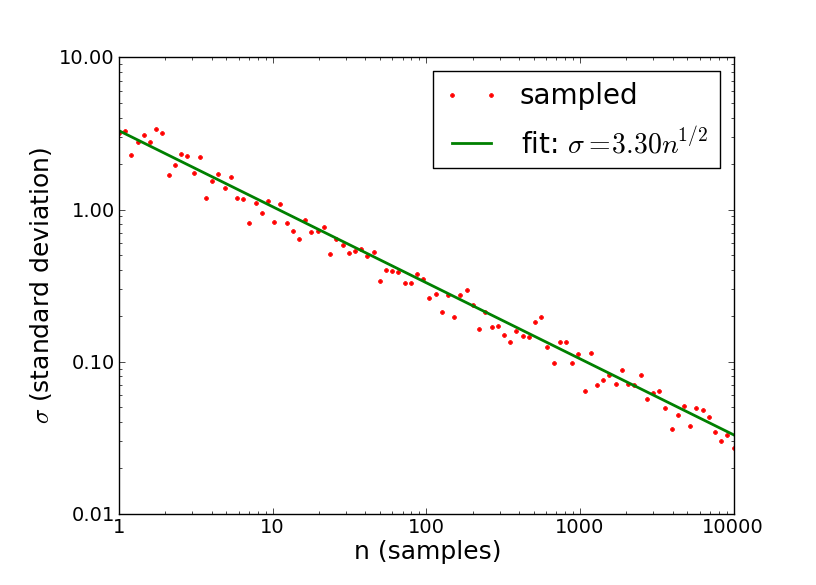
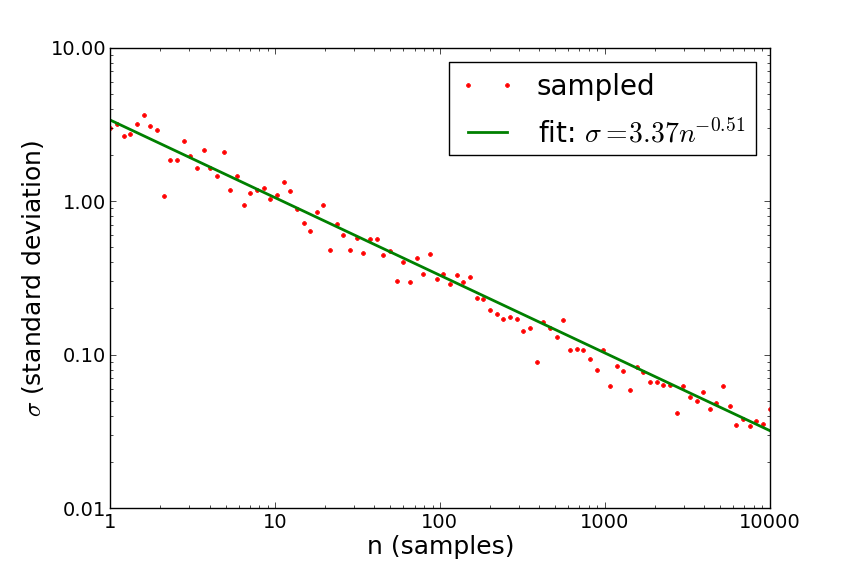
Fit power law to CLT code and plot bandpass response in dB

Changed region(s): [[0.0306, 0.0624, 0.9498, 0.9671]]

diff --git a/lab_analog/code/week1_plots.py b/lab_analog/code/week1_plots.py
@@ -58,12 +58,12 @@ def bandpass_plot():
     Resistors = CircuitImpedance([R1, R1])
     LC_loop = CircuitImpedance([L1, C1, C1, C1])
     bandpass = VoltageDivider(Resistors, LC_loop)
-    plot(f, bandpass.response(2*pi*f)**2, "b-", linewidth=2)
+    plot(f, 20*log10(bandpass.response(2*pi*f)), "b-", linewidth=2)
     # format plot with slightly weird bounds for aesthetic reasons
     xlim(680000, 1320000)
-    ylim(ylim()[0], ylim()[1] + .05)
+    ylim(-5, ylim()[1] + .05)
     # plot(xlim(), [.5, .5], "m-", label="half power")
-    ylabel(r"$P_{out}/P_{in}$", fontsize=18)
+    ylabel(r"Gain $(dB)$", fontsize=18)
     plot([1.045e6, 1.045e6], ylim(), "r--", label=r"$1.045 MHz$", linewidth=2)
     plot([1.045e6-100e3, 1.045e6-100e3], ylim(), "r:", label=r"$\pm100 kHz$", linewidth=2)
     plot([1.045e6+100e3, 1.045e6+100e3], ylim(), "r:", linewidth=2)
@@ -71,7 +71,7 @@ def bandpass_plot():
     xticks(fontsize=14)
     yticks(fontsize=14)
     ticklabel_format(axis='x', style='sci', scilimits=(-2,2))
-    legend(loc=3)
+    legend(loc=1)
     show()
 
 

diff --git a/lab_analog/code/central_limit.py b/lab_analog/code/central_limit.py
@@ -87,13 +87,15 @@ def n_scaling_2(distribution):
     # standard deviations of samples of size 20
     std_array = [np.std(collect_samples(distribution, n=int(n), N=20)) for n in n_array]
 
-    def sig_fit(n, A):
-        return A/sqrt(n)
-    A = curve_fit(sig_fit, n_array, std_array)[0][0]
-    fitfunc = lambda n: sig_fit(n, A)
+    def sig_fit(n, A, B):
+        return A * n**(B)
+    A, C = curve_fit(sig_fit, n_array, std_array)
+    A, B = A
+    print C
+    fitfunc = lambda n: sig_fit(n, A, B)
 
     loglog(n_array, std_array, "r.", label=r"sampled")
-    loglog(n_array, fitfunc(n_array), "g-", linewidth=2, label=r"fit: $\sigma = %.2fn^{1/2}$" % A)
+    loglog(n_array, fitfunc(n_array), "g-", linewidth=2, label=r"fit: $\sigma = %.2fn^{%.2f}$" % (A, B))
     xlabel(r"n (samples)", fontsize=18)
     ylabel(r"$\sigma$ (standard deviation)", fontsize=18)
     xticks(fontsize=14)
